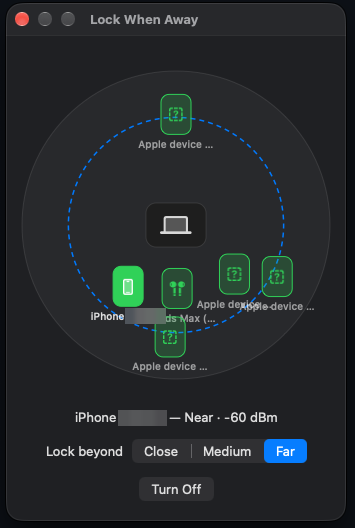
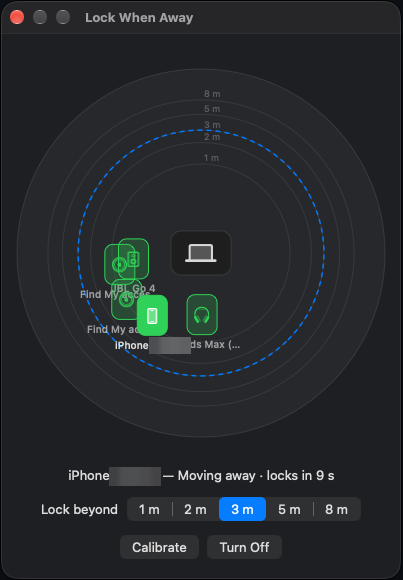
Update README screenshots

diff --git a/README.md b/README.md
@@ -3,9 +3,9 @@
 Menu bar kiosk lock for macOS. While locked the screen stays awake and visible, but every click and keystroke is swallowed until the PIN is entered.
 
 <p>
-  <img src="docs/menu.png" alt="pinlock menu bar menu" width="231">
+  <img src="docs/menu.png" alt="pinlock menu bar menu" width="264">
   &nbsp;
-  <img src="docs/lock-when-away.png" alt="Lock When Away window: the Mac in the middle, nearby Apple devices placed by signal strength, the dashed ring marks the lock distance" width="355">
+  <img src="docs/lock-when-away.png" alt="Lock When Away window: the Mac in the middle, nearby devices with icons placed by estimated distance on metre rings, the dashed ring marks the lock distance" width="403">
 </p>
 
 ## What it is, and what it isn't
